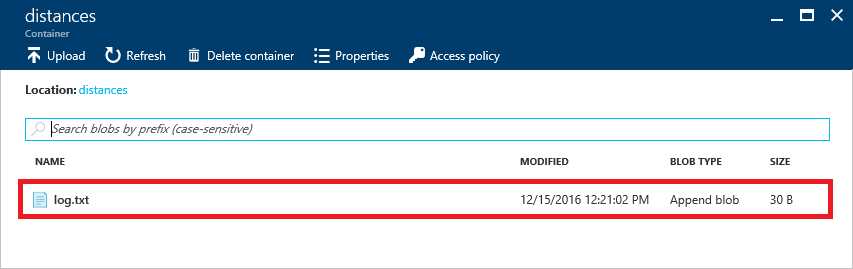
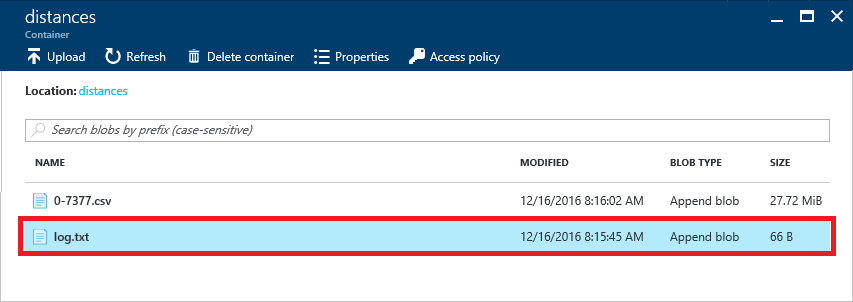
Edited VM scaling lab

Changed region(s): [[0.0, 0.3866, 1.0, 0.8625], [0.0, 0.0297, 1.0, 0.3569], [0.8839, 0.0297, 1.0, 0.0892]]

diff --git a/Workshop/10. VM Scaling/VM Scaling.md b/Workshop/10. VM Scaling/VM Scaling.md
@@ -6,29 +6,36 @@
 <a name="Overview"></a>
 ## Overview ##
 
-TODO: Add intoductory paragraph
+One of the benefits of using the cloud to attack large computing problems is virtually limitless scalability. In Microsoft Azure, you can create a cluster of virtual machines (VMs) networked to form a high-performance computing (HPC) cluster in a matter of minutes. If you need more computing power than the cluster can provide, you can *scale up* by creating a cluster with larger and more capable virtual machines (more cores, more RAM, etc.), or you can *scale out* by creating a cluster with more nodes. Finding the optimum cluster configuration for a given job is a key requirement for utilizing compute resources effectively and efficiently.
 
-The [Simple Linux Utility for Resource Management (SLURM)](https://slurm.schedmd.com/), also known as the SLURM Workload Manager, is a free and open-source job scheduler for Linux that excels at distributing heavy computing workloads across clusters of machines and processors. It is used on more than half of the world's largest supercomputers and High-Performance Computing (HPC) clusters, and it enjoys widespread use in the research community for jobs that require significant CPU resources.
+In this hands-on lab, you will run a compute-intensive job on three different HPC clusters and compare performance. The cluster sizes you will use are:
 
-Azure makes it easy to deploy SLURM clusters and size them to handle workloads large and small. In this lab, you will get first-hand experience deploying HPC clusters in Azure as well as managing and using the nodes in a cluster. And you will learn how easy it is to bring massive computing power to bear on problems that require it when you use the cloud. 
+- One worker node with one core and 3.5 GB of RAM
+- One worker node with eight cores and 28 GB of RAM
+- Eight worker nodes, each with one core and 3.5 GB of RAM
 
-This lab uses SLURM to manage the calculations for a distance table with over 7,300 airports. The number of possible distances on a table is the square of the number of airports, meaning there are over 53 million possible distances. 
+The job that you will run is written in Python, and it involves using the latitudes and longitudes of more than 7,300 airports to build a distance table like the one below containing the distance between each airport. Since the number of distances is the square of the number of airports, the job computes more than 53 million distances, and the calculations are floating-point intensive as well as CPU-intensive because the distances are calculated over the [surface of a sphere](https://en.wikipedia.org/wiki/Great-circle_distance).
 
 ![Sample Distance Table](Images/disttabl.gif)
 
-The distances are caculated over the [surface of a sphere](https://en.wikipedia.org/wiki/Great-circle_distance). These calculations requires a number of CPU intense, floating point operations per distance calculated. Using an HPC cluster can divide this workload among multiple CPU's to significantly speed up the time for calculation. This lab will compare using a single node to perform the calculations, a more powerful single node, and lastly a cluster of 8 nodes.
+_Sample distance table_
+
+To distribute the workload among all the nodes and cores in each cluster, the Python code that you will run uses the [Simple Linux Utility for Resource Management](https://slurm.schedmd.com/), also known as the SLURM Workload Manager or simply SLURM. SLURM is a free and open-source job scheduler for Linux that excels at distributing heavy computing workloads across clusters of machines and processors. It is used on more than half of the world's largest supercomputers and HPC clusters, and it enjoys widespread use in the research community for jobs that require significant compute resources.
+
+This lab normally requires 90 minutes or more to complete because it has you deploy and test three clusters sequentially. You can economize on time by deploying all three clusters in parallel, essentially working Exercises 2, 7, and 8 at the same time. Be aware, however, that some free Azure subscriptions limit the number of virtual-machine cores that can be extant at any one time, so depending on what type of subscription you have, you may or may not be able to deploy three clusters concurrently. 
 
 <a name="Objectives"></a>
 ### Objectives ###
 
 In this hands-on lab, you will learn how to:
 
-- Create a SLURM cluster using an Azure Resource Manager template
+- Create a SLURM cluster in Azure
 - Copy local resources to a SLURM cluster
-- Remote into the nodes in a SLURM cluster
+- Remote into a SLURM cluster
 - Run jobs on a SLURM cluster
-- Start and stop nodes in a SLURM cluster
 - Use the Azure Resource Manager to delete a SLURM cluster
+
+Moreover, you will get a first-hand look at the differences in performance when scaling up versus scaling out. Of course, every job is different, so the exercises herein provide just one example of the performance differences one can expect.
 
 <a name="Prerequisites"></a>
 ### Prerequisites ###
@@ -47,8 +54,8 @@ The following are required to complete this hands-on lab:
 - [Exercise 4 (Windows): Connect to and configure the cluster](#Exercise3)
 - [Exercise 5: Run a job and view the results](#Exercise5)
 - [Exercise 6: Delete the cluster](#Exercise6)
-- [Exercise 7: Test with a cluster containing one worker nodes with eight CPUs](#Exercise7)
-- [Exercise 8: Test with a cluster containing eight worker nodes with one CPU each](#Exercise8)
+- [Exercise 7: Test with a cluster containing one worker nodes with eight cores](#Exercise7)
+- [Exercise 8: Test with a cluster containing eight worker nodes with one core each](#Exercise8)
 - [Exercise 9: Delete the storage account](#Exercise9)
 
 Estimated time to complete this lab: **90 minutes**.
@@ -133,7 +140,7 @@ Let's get started!
 
 1. Select **Create new** under **Resource group** and enter the resource-group name "ClusterResourceGroup" (without quotation marks). It is important NOT to use the same resource group you used for the storage account in Exercise 1, because when you delete the cluster in Exercise 6, you don't want to the storage account to be deleted, too.
 
-	Select the location nearest you — the same one you selected for the storage account in Exercise 1 — under **Location**. Specify "azureuser" as the **Admin User Name** and "Azure4Research!" as the **Admin Password**. Leave **Vm Size** set to **Standard_D1_v2** and set **Scale Number** to **1** to create a cluster containing one master node and one worker node, each with a single CPU. Then check the **I agree to the terms and conditions stated above** box and click the **Purchase** button at the bottom of the blade.
+	Select the location nearest you — the same one you selected for the storage account in Exercise 1 — under **Location**. Specify "azureuser" as the **Admin User Name** and "Azure4Research!" as the **Admin Password**. Leave **Vm Size** set to **Standard_D1_v2** and set **Scale Number** to **1** to create a cluster containing one master node and one worker node, each with a single core. Then check the **I agree to the terms and conditions stated above** box and click the **Purchase** button at the bottom of the blade.
 
 	> It is very important to specify "azureuser" as the admin user name, because the scripts that you will use to configure the cluster use that user name.
 
@@ -255,15 +262,13 @@ The next task is to run a job on the cluster that you just configured.
 <a name="Exercise5"></a>
 ## Exercise 5: Run a job and view the results
 
-In this exercise, you will run **controller.py** on the cluster's master node. **controller.py** performs the CPU-intensive task of computing the distances over a sphere between more than 7,300 airports, yielding more than 53 million distances in total. Rather than do the work on the master node, **controller.py** uses SLURM to delegate calculations to the worker nodes and divides the work into the number of "slices" specified in a command-line parameter. 
+In this exercise, you will run **controller.py** on the cluster's master node. **controller.py** performs the CPU-intensive task of computing the distances over a sphere between more than 7,300 airports, yielding more than 53 million distances in total. Rather than do the work on the master node, **controller.py** uses SLURM to delegate calculations to the worker nodes and divides the work into the number of "slices" specified in a command-line parameter. You generally want one "slice" for each core in the cluster.
 
 1. In the terminal window (macOS and Linux) or the PuTTY terminal window (Windows), execute the following command:
 
 	```
 	python3 controller.py 1
 	```
-
-	**controller.py** accepts one parameter that tells it how many jobs to delegate to SLURM. It divides the workload for building the distance table into equal proportions for each job, and uses SLURM to delegate the jobs to each of the nodes in the cluster. 
 
 1. Return to the Azure Portal. Click **Resource groups** in the ribbon on the left, and then click the "ScalingLabResourceGroup" resource group containing the storage account you created in [Exercise 1](#Exercise1).
 
@@ -301,21 +306,21 @@ In this exercise, you will run **controller.py** on the cluster's master node. *
 
 	_Downloading the blob_
 
-1. Note the start time for the workload and the finish time for the last job to complete.
+1. The Python script that you ran in Step 1 finishes quickly, but the job itself runs asynchronously and will probably take four minutes or more on a cluster consisting of a single worker node and single core. When the job is complete, **log.txt** will contain something similar to this:
 
-	Example: 
+	```
+	Starting: 2016-12-16 13:15:45
+	Starting 0-7377:2016-12-16 13:15:45
+	Finishing 0-7377:2016-12-16 13:19:55
+	```
 
-	````
-	Starting: 2016-12-12 01:35:07
-	Starting 0-3689:2016-12-12 01:35:09
-	Starting 3690-7377:2016-12-12 01:35:09
-	Finishing 3690-7377:2016-12-12 01:37:01
-	Finishing 0-3689:2016-12-12 01:37:12
-	````
+	The first line indicates when the job was started (when **controller.py** was executed). The succeeding lines indicate when each "slice" of the job was started and completed. In this case, because you passed 1 as a command-line parameter to **controller.py**, there is one starting/finishing pair.
 
-	The difference between these two times is the time it takes to complete the workload. Keep this file handy to compare to Exercises 10 and 11.
+	Download **log.txt** repeatedly until it contains three lines of output similar to the ones above.
 
-TODO: Add closing paragraph.
+1. Compute the wall-clock time required to complete the job by subtracting the time on the first line from the time on the final line. In the example above, the time required is 4 minutes and 10 seconds.
+
+You now have a baseline for a performance comparison: the time the job required on a single worker node with just one core. **Write down the result so you can easily retrieve it later**. In subsequent runs with larger clusters, **log.txt** will be overwritten with newer results.
 
 <a name="Exercise6"></a>
 ## Exercise 6: Delete the cluster
@@ -339,15 +344,17 @@ When virtual machines are running, you are being charged — even if the VMs are
 After a few minutes, the cluster and all of its resources will be deleted. Billing stops when you click the **Delete** button, so you're not charged for the time required to delete the cluster. Similarly, bulling doesn't start until a cluster is fully and successfully deployed.
 
 <a name="Exercise7"></a>
-## Exercise 7: Test with a cluster containing one worker node with eight CPUs
+## Exercise 7: Test with a cluster containing one worker node with eight cores
 
-In this exercise, you will deploy a new cluster containing a single worker node with eight CPUs. Then you will run the same job on it and compare the performance of this cluster to the performance of the cluster containing a single worker node with one CPU.
+In this exercise, you will deploy a new cluster containing a single worker node with eight cores. Then you will run the same job on it and compare the performance of this cluster to the performance of the cluster containing a single worker node with one core.
 
 1. Repeat Exercises 2-5, but this time, in Exercise 2, Step 2, set **Vm Size** to **Standard_D4_v2** and **Scale Number** to **1**.
 
-	![Creating a cluster containing one worker node with eight CPUs](Images/vm-parameters-1.png)
+	> Feel free to use a different resource-group name if you would like (for example, "ClusterResourceGroup2") in case the previous resource group is still being deleted.
 
-	_Creating a cluster containing one worker node with eight CPUs_
+	![Creating a cluster containing one worker node with eight cores](Images/vm-parameters-1.png)
+
+	_Creating a cluster containing one worker node with eight cores_
 
 1. Repeat Exercises 5 and 6, but use the following command to run the job in Exercise 5, Step 1:
 
@@ -355,18 +362,41 @@ In this exercise, you will deploy a new cluster containing a single worker node 
 	python3 controller.py 8
 	```
 
-How long did it take for the job to run this time?
+1. This time, the final **log.txt** file will look something like this since the job was divided into eight parts to better leverage the eight cores available:
+
+	```
+	Starting 1846-2768:2016-12-16 13:48:03
+	Starting 3692-4614:2016-12-16 13:48:03
+	Finishing 3692-4614:2016-12-16 13:48:33
+	Starting 0-922:2016-12-16 13:48:33
+	Finishing 1846-2768:2016-12-16 13:48:42
+	Starting 923-1845:2016-12-16 13:48:42
+	Finishing 0-922:2016-12-16 13:49:03
+	Starting 2769-3691:2016-12-16 13:49:03
+	Finishing 923-1845:2016-12-16 13:49:15
+	Starting 4615-5537:2016-12-16 13:49:16
+	Finishing 2769-3691:2016-12-16 13:49:33
+	Starting 5538-6460:2016-12-16 13:49:34
+	Finishing 4615-5537:2016-12-16 13:49:51
+	Starting 6461-7377:2016-12-16 13:49:51
+	Finishing 5538-6460:2016-12-16 13:50:04
+	Finishing 6461-7377:2016-12-16 13:50:25
+	```
+
+How long did it take for the job to run this time? How does it compare to the result you received when you ran the job on a single core?
 
 <a name="Exercise8"></a>
-## Exercise 8: Test with a cluster containing eight worker nodes with one CPU each
+## Exercise 8: Test with a cluster containing eight worker nodes with one core each
 
-In this exercise, you will deploy a new cluster containing eight worker nodes with one CPU each. Then you will run the same job on it and compare the performance of this cluster to the performance of the other two clusters. Note that it will take longer to deploy and configure the cluster this time due to the increased number of worker nodes.
+In this exercise, you will deploy a new cluster containing eight worker nodes with one core each. Then you will run the same job on it and compare the performance of this cluster to the performance of the other two clusters. Note that it will take longer to deploy and configure the cluster this time due to the increased number of worker nodes.
 
-1. Repeat Exercises 2-5, but this time, in Exercise 2, Step 2, set **Vm Size** to **Standard_D1_v2** and **Scale Number** to **8**. 
+1. Repeat Exercises 2-5, but this time, in Exercise 2, Step 2, set **Vm Size** to **Standard_D1_v2** and **Scale Number** to **8**.
 
-	![Creating a cluster containing eight worker nodes with one CPU each](Images/vm-parameters-2.png)
+	> Feel free to use a different resource-group name if you would like (for example, "ClusterResourceGroup3") in case the previous resource group is still being deleted.
 
-	_Setting the VM size_
+	![Creating a cluster containing eight worker nodes with one core each](Images/vm-parameters-2.png)
+
+	_Creating a cluster containing eight worker nodes with one core each_
 
 1. Repeat Exercises 5 and 6, and use the following command to run the job in Exercise 5, Step 1:
 
@@ -374,7 +404,29 @@ In this exercise, you will deploy a new cluster containing eight worker nodes wi
 	python3 controller.py 8
 	```
 
-How long did it take for the job to run this time?
+1. This time, the final **log.txt** file will look something like this:
+
+	```
+	Starting: 2016-12-16 15:00:23
+	Starting 923-1845:2016-12-16 15:00:25
+	Starting 2769-3691:2016-12-16 15:00:25
+	Starting 5538-6460:2016-12-16 15:00:25
+	Starting 0-922:2016-12-16 15:00:25
+	Starting 4615-5537:2016-12-16 15:00:25
+	Starting 1846-2768:2016-12-16 15:00:25
+	Starting 3692-4614:2016-12-16 15:00:25
+	Starting 6461-7377:2016-12-16 15:00:25
+	Finishing 5538-6460:2016-12-16 15:00:55
+	Finishing 0-922:2016-12-16 15:00:56
+	Finishing 4615-5537:2016-12-16 15:00:57
+	Finishing 3692-4614:2016-12-16 15:00:57
+	Finishing 923-1845:2016-12-16 15:00:58
+	Finishing 2769-3691:2016-12-16 15:00:59
+	Finishing 6461-7377:2016-12-16 15:01:01
+	Finishing 1846-2768:2016-12-16 15:01:03
+	```
+
+How long did it take for the job to run this time? How does it compare to the results you received when you ran the job on a single core and on a single node containing eight cores?
 
 <a name="Exercise9"></a>
 ## Exercise 9: Delete the storage account
@@ -400,15 +452,9 @@ After a few minutes, the resource group and all of its resources will be deleted
 <a name="Summary"></a>
 ## Summary
 
-In this hands-on lab, you learned how to:
+In this hands-on lab, you compared the performance of three HPC clusters running the same compute-intensive job. It's just one data point, but is indicative of the kinds of differences you can expect, especially when using SLURM to distribute the workload among nodes and cores. If you would like to go further in your experimentation, consider trying different types of Azure VMs such as the recently introduced [H-series](https://docs.microsoft.com/en-us/azure/virtual-machines/virtual-machines-linux-a8-a9-a10-a11-specs) of machines, which are designed for high-end computational needs such as molecular modeling and computational fluid dynamics and feature InfiniBand networking, as well as [N-series](http://gpu.azure.com/) machines, which contain GPUs. The results will undoubtedly vary with these machines, and you would expect better performance given that the D1_v2 and D4_v2 VMs you used in these exercises are relatively modest machines.
 
-- Create a SLURM cluster using an Azure Resource Manager template
-- Copy local resources to a SLURM cluster
-- Remote into the nodes in a SLURM cluster
-- Run jobs on a SLURM cluster
-- Delete a SLURM cluster by deleting the resource group containing it
-
-It is **much** easier to deploy a SLURM cluster in Azure than to install and configure a physical SLURM cluster. This is one of the ways in which cloud computing benefits researchers: it allows you to quickly and easily deploy the resources you need, *when* you need them, pay only for the resources you use, and delete them when they are no longer necessary.
+For more information on the numerous VM sizes available in Azure, refer to https://docs.microsoft.com/en-us/azure/virtual-machines/virtual-machines-windows-sizes for Windows VMs and https://docs.microsoft.com/en-us/azure/virtual-machines/virtual-machines-linux-sizes for Linux VMs.
 
 ----
 
